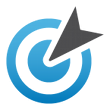
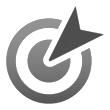
style for empty location search list

Changed region(s): [[0.0545, 0.1636, 0.8455, 0.9545], [0.2455, 0.3545, 0.6545, 0.7636]]

diff --git a/app/src/whitelabel/frizz/src/app/util/Translations.js b/app/src/whitelabel/frizz/src/app/util/Translations.js
@@ -2109,8 +2109,8 @@ Ext.define('EatSense.util.Translations',{
 			"EN" : "Search"
 		},
 		"geosearch.list.nolocations" : {
-			"DE" :  "Keine Locations in der Nähe gefunden.",
-			"EN" : "No locations near you found."
+			"DE" : "<div class='empty-image'></div><div>Keine Locations in der Nähe gefunden.</div>",
+			"EN" : "<div class='empty-image'></div><div>No locations near you found.</div>"
 		},
 		"dashboard.button.geosearch" : {
 			"DE" :  "Suche",

diff --git a/app/src/app/view/geosearch/List.js b/app/src/app/view/geosearch/List.js
@@ -10,6 +10,7 @@ Ext.define('EatSense.view.geosearch.List', {
 		store: 'locationSearchStore',
 		variableHeights: false,
 		itemHeight: 75,
+		scollToTopOnRefresh: true,
 		emptyText: i10n.translate('geosearch.list.nolocations'),
 		itemTpl: new Ext.XTemplate(
 		'<tpl if="imageUrl">',
